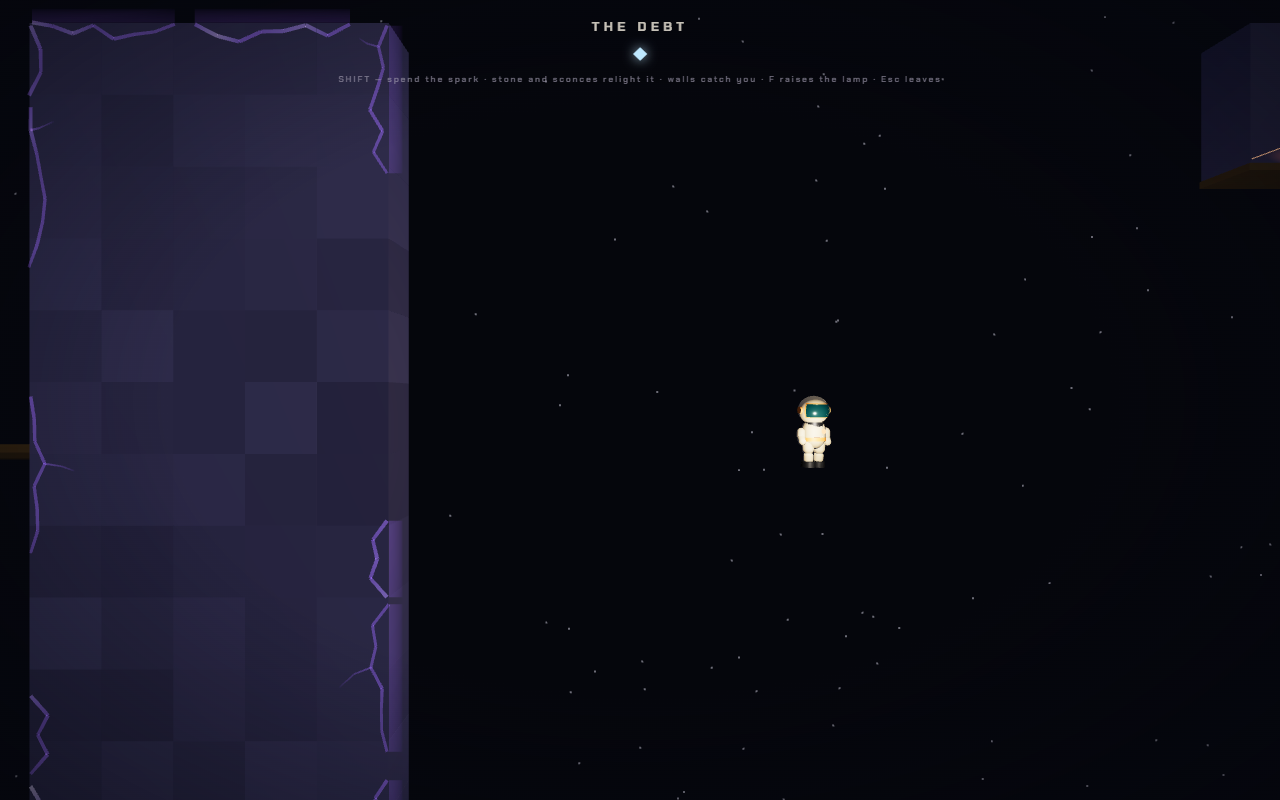
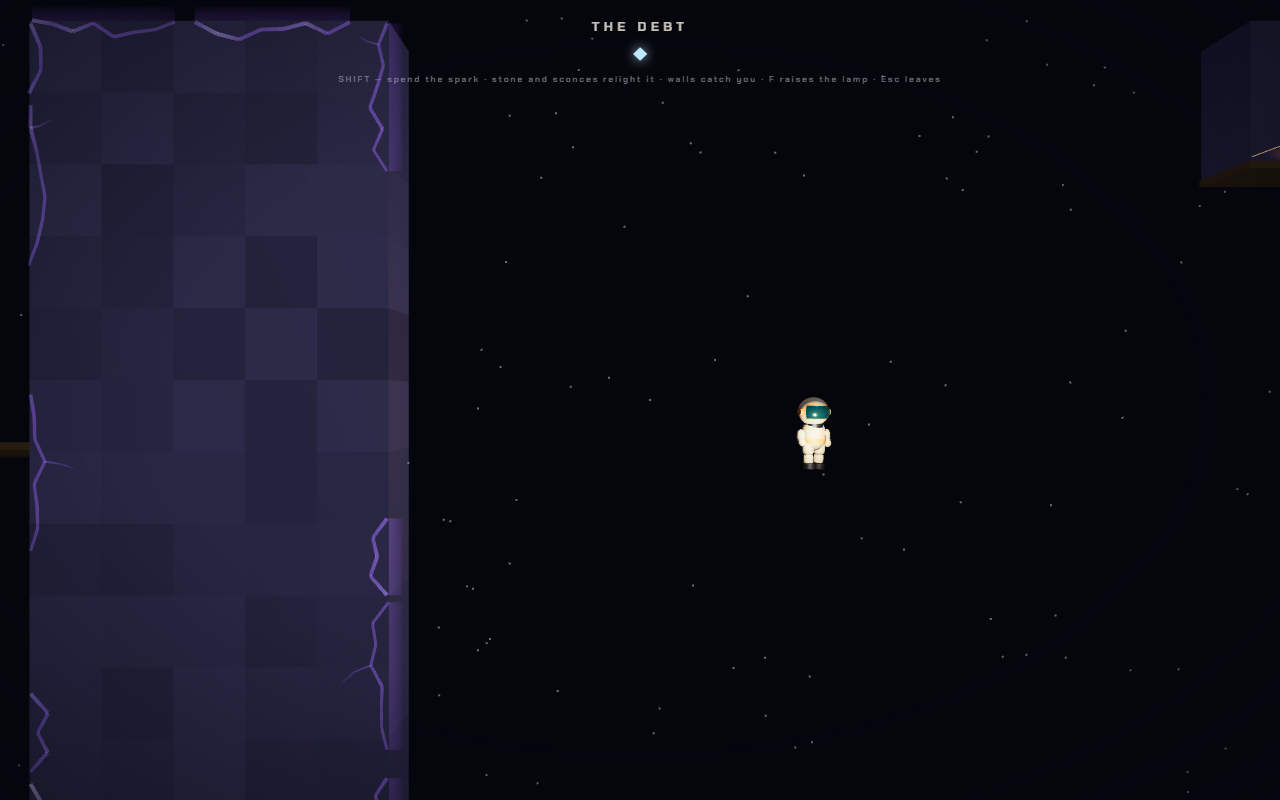
The sum leaves with the door
The count is cut into the masonry, not hung in front of it. It shipped as
its own object though, so paying a door off faded the stone and left the
bronze register behind: a small lit cube floating in an empty doorway with
nothing holding it up.

It fades with the door now, pips and all. Adds the door register check, so
nothing can be left standing in a doorway again without the suite saying so.

diff --git a/src/game/vault.ts b/src/game/vault.ts
@@ -13,7 +13,7 @@ import {
   buildRailPost, buildBolt, BoltParts, buildSnuffer, MothParts,
   buildCenser, CenserParts, buildArcTelegraph, ArcTelegraph, buildChain,
   buildCrusher, buildRime, RimeParts,
-  buildPier, buildDeck, DeckParts, buildDoorRune,
+  buildPier, buildDeck, DeckParts, buildDoorRune, DoorRuneParts,
   buildCurtain, CurtainParts, buildCurrent, CurrentParts,
   buildMote, buildMasterDressing,
 } from './vaultkit';
@@ -266,8 +266,9 @@ export class VaultRun {
     smoke: THREE.Mesh[];
   }[] = [];
   private doorMeshes: THREE.Mesh[][] = [];
-  /** the count on a door's face, filling a pip per sconce lit */
-  private doorPips: THREE.Mesh[][] = [];
+  /** the count on a door's face, filling a pip per sconce lit — and it
+   *  belongs to the door, so it leaves when the door does */
+  private doorRunes: DoorRuneParts[] = [];
   private bridgeMeshes: { mesh: THREE.Mesh; mat: THREE.MeshBasicMaterial; group: 0 | 1; parts: DeckParts }[] = [];
   /** a bridge run's piers, which never go out — the phase read from a distance */
   private pierMats: THREE.MeshBasicMaterial[] = [];
@@ -607,7 +608,7 @@ export class VaultRun {
       const rune = buildDoorRune(need);
       rune.group.position.set(mid.x + 0.5, -(mid.y + 0.5), 0.5);
       this.scene.add(rune.group);
-      this.doorPips.push(rune.pips);
+      this.doorRunes.push(rune);
     }
 
     // bridges — a deck of light between two stone piers. The piers stay lit
@@ -2367,14 +2368,21 @@ export class VaultRun {
         mm.opacity += ((this.doorOpen[d] ? 0 : 1) - mm.opacity) * Math.min(1, dt * 3);
         m.visible = mm.opacity > 0.03;
       }
-      // the count on its face fills a pip per sconce lit -- arithmetic, and
-      // it goes on reading as arithmetic while the door itself fades out
+      // the count on its face fills a pip per sconce lit — arithmetic, and it
+      // goes on reading as arithmetic right up until the sum comes out, at
+      // which point the register leaves with the masonry it is cut into. It
+      // is part of the door, not a fixture hanging in the empty doorway.
+      const rune = this.doorRunes[d];
+      const vis = (this.doorMeshes[d][0].material as THREE.MeshStandardMaterial).opacity;
+      rune.group.visible = vis > 0.03;
+      rune.brass.opacity = vis;
       const paid = this.sconceLit.filter(Boolean).length;
-      for (let k = 0; k < this.doorPips[d].length; k++) {
-        const mm = this.doorPips[d][k].material as THREE.MeshBasicMaterial;
+      for (let k = 0; k < rune.pips.length; k++) {
+        const mm = rune.pips[k].material as THREE.MeshBasicMaterial;
         const on = k < paid;
-        mm.opacity += ((on ? 0.85 + Math.sin(this.time * 3 + k) * 0.12 : 0.12) - mm.opacity)
-          * Math.min(1, dt * 4);
+        const want = (on ? 0.85 + Math.sin(this.time * 3 + k) * 0.12 : 0.12) * vis;
+        mm.opacity += (want - mm.opacity) * Math.min(1, dt * 4);
+        rune.lamps[k].opacity = (on ? 0.3 : 0.06) * vis;
       }
     }
     for (const bm of this.bridgeMeshes) {

diff --git a/src/game/vaultkit.ts b/src/game/vaultkit.ts
@@ -1297,14 +1297,28 @@ export function buildDeck(hue: number): DeckParts {
  * one at a time as the sconces of the room are lit. A door you cannot read
  * the price of is a lock; a door with the sum on its face is arithmetic.
  */
-export function buildDoorRune(need: number): { group: THREE.Group; pips: THREE.Mesh[] } {
+export interface DoorRuneParts {
+  group: THREE.Group;
+  /** one per unit of the price, filling as the room's sconces are lit */
+  pips: THREE.Mesh[];
+  /** the bronze it is cut into — faded out with the masonry it belongs to */
+  brass: THREE.MeshStandardMaterial;
+  lamps: THREE.MeshBasicMaterial[];
+}
+
+export function buildDoorRune(need: number): DoorRuneParts {
   const g = new THREE.Group();
-  const bronze = bronzeMat(0xa8874a);
-  g.add(new THREE.Mesh(new THREE.BoxGeometry(0.2 + need * 0.22, 0.42, 0.06), bronze));
+  // the register is transparent from the start: when the price is paid the
+  // door dissolves, and the sum on its face has to go with it rather than
+  // hang in the doorway on its own
+  const brass = bronzeMat(0xa8874a);
+  brass.transparent = true;
+  g.add(new THREE.Mesh(new THREE.BoxGeometry(0.2 + need * 0.22, 0.42, 0.06), brass));
   const pips: THREE.Mesh[] = [];
+  const lamps: THREE.MeshBasicMaterial[] = [];
   for (let i = 0; i < need; i++) {
     const ox = (i - (need - 1) / 2) * 0.22;
-    const socket = new THREE.Mesh(new THREE.TorusGeometry(0.078, 0.02, 5, 12), bronze);
+    const socket = new THREE.Mesh(new THREE.TorusGeometry(0.078, 0.02, 5, 12), brass);
     socket.position.set(ox, 0, 0.04);
     const pip = new THREE.Mesh(new THREE.CircleGeometry(0.07, 12), glowMat(0xffd9a0, 0.15));
     pip.position.set(ox, 0, 0.05);
@@ -1312,8 +1326,9 @@ export function buildDoorRune(need: number): { group: THREE.Group; pips: THREE.M
     lamp.position.set(ox, 0, 0.06);
     g.add(socket, pip, lamp);
     pips.push(pip);
+    lamps.push(lamp.material as THREE.MeshBasicMaterial);
   }
-  return { group: g, pips };
+  return { group: g, pips, brass, lamps };
 }
 
 // ---------------------------------------------------------------------------

diff --git a/SPEC-VAULTS-2.md b/SPEC-VAULTS-2.md
@@ -773,6 +773,12 @@ permissive — `vaultfit` already treated `A` `b` `R` as air. *Adds:* the
 `thin platforms` check, which proves the head stops on the ice and the feet
 still land on the tile top, for both a shelf and a deck.
 
+**The door's count register is cut INTO the door**, so it fades with the
+masonry it is part of. It shipped as a separate object added to the scene,
+and when a door was paid off the bronze plate stayed behind, hanging in the
+empty doorway as a small lit cube with nothing holding it up. *Adds:* the
+`door register` check.
+
 **The proving ground grew** a plain shuttle, a crusher, three rime shelves,
 two bridge runs and a door: the dev room had no bolt, crusher, rime, bridge
 or door on screen, so those families could not be reviewed at all. The nine
